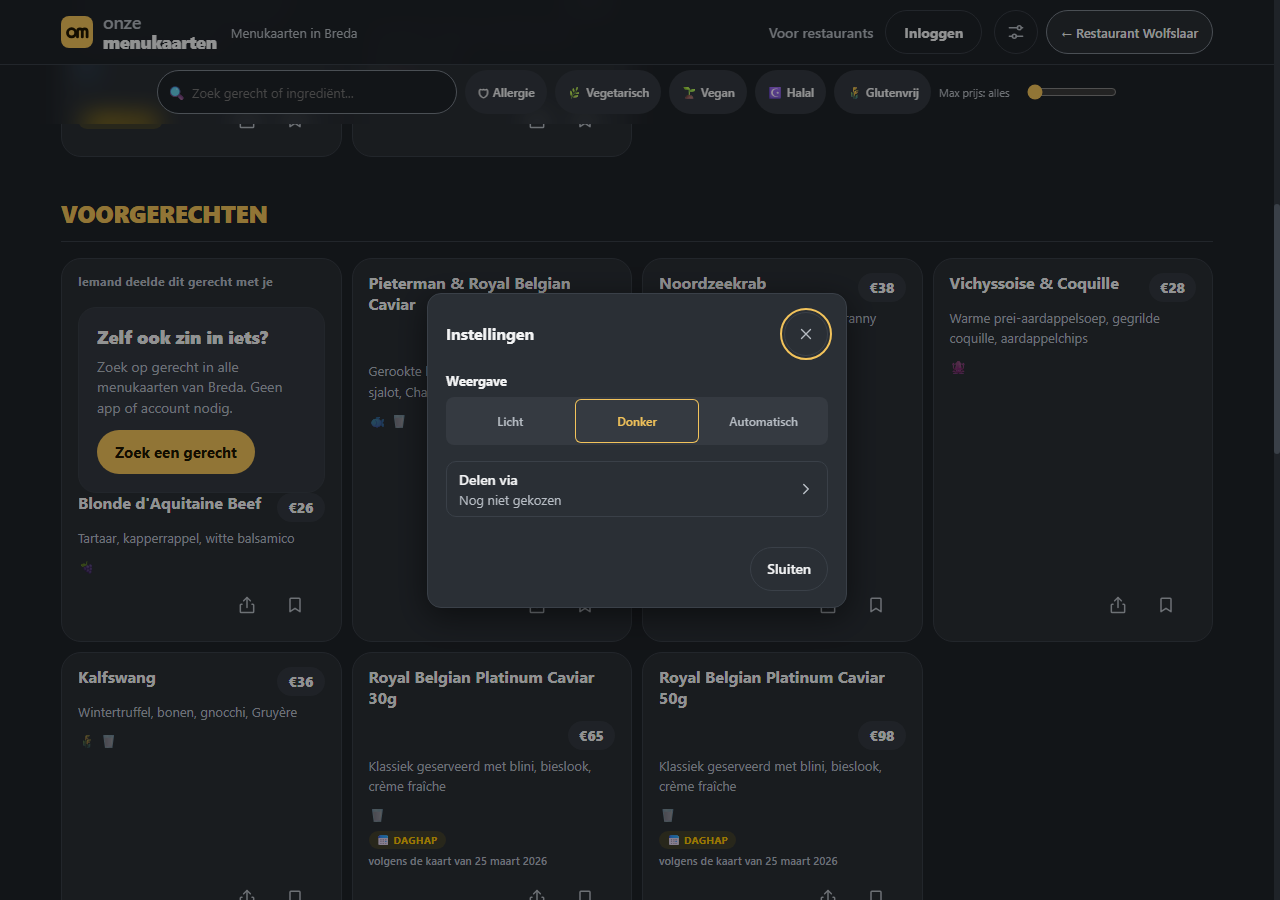
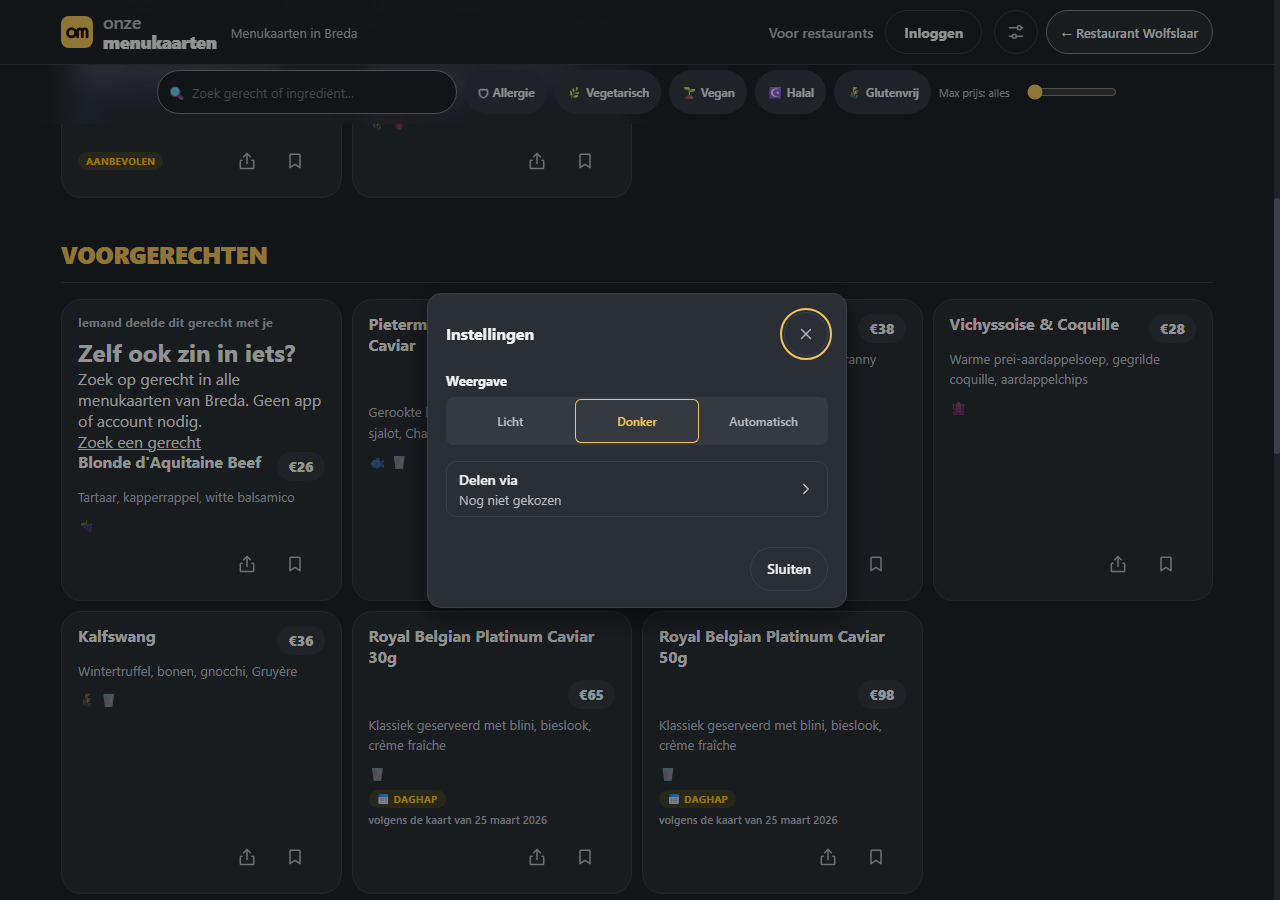
test(be62): eindbewijs van browsercheck, laadgrootte en de menu-route onder de oude budgetgrens (#153)

diff --git a/src/lib/be62Surface.test.js b/src/lib/be62Surface.test.js
@@ -48,12 +48,18 @@ test('BE-62: /kies toont de vraag alleen na een eigen stem', () => {
 });
 
 test('BE-62: een gedeeld gerecht krijgt het vlak onder de deelregel, met Bewaar', () => {
-  assert.match(MENU_BODY, /import ZoekGerechtBlock from '@\/src\/components\/ZoekGerechtBlock'/);
+  // De opmaak staat hier zelf (geen extra component), zodat de eerste lading
+  // van de menukaart niet groeit.
+  assert.doesNotMatch(MENU_BODY, /import ZoekGerechtBlock/);
   // Deelregel en vlak delen dezelfde voorwaarde; het vlak staat er direct na.
   assert.match(MENU_BODY, /\{shareNote && <div className="dish-share-note">\{SHARED_DISH_NOTE\}<\/div>\}/);
   const after = MENU_BODY.slice(MENU_BODY.indexOf('{shareNote && <div className="dish-share-note">'));
-  assert.match(after, /\{shareNote && \(\s*<ZoekGerechtBlock/);
-  assert.equal(MENU_BODY.match(/<ZoekGerechtBlock/g).length, 1);
+  assert.match(after, /\{shareNote && \(\s*<section className="zoek-gerecht zoek-gerecht--dish">/);
+  assert.equal(MENU_BODY.match(/className="zoek-gerecht zoek-gerecht--dish"/g).length, 1);
+  assert.ok(MENU_BODY.includes(`>${SHARED_RETURN_TITLE}<`));
+  assert.ok(MENU_BODY.includes(`>${SHARED_RETURN_BODY}<`));
+  assert.ok(MENU_BODY.includes(`>${SHARED_RETURN_CTA}<`));
+  assert.match(MENU_BODY, /<Link href="\/" className="zoek-gerecht-btn" prefetch=\{false\}>/);
   // De bestaande bewaarknop blijft op de kaart staan (Bewaar + Delen).
   assert.match(MENU_BODY, /<DishShareButton[\s\S]*?entry=\{saveEntry\}/);
   // En de deelregel verschijnt alleen bij een gedeelde link, zoals voorheen.
@@ -67,8 +73,9 @@ test('BE-62: een gedeeld lijstje krijgt hetzelfde vlak, naast de bestaande bewaa
   const sharedBranch = LIJST.slice(LIJST.indexOf('{shared ? ('), LIJST.indexOf(') : own.length === 0 ? ('));
   assert.ok(sharedBranch.includes('<ZoekGerechtBlock'), 'het vlak staat in de tak van het gedeelde lijstje');
   assert.ok(sharedBranch.includes('ADD_TO_OWN_LIST_LABEL'), 'de bestaande bewaarknop staat ernaast');
-  // De woorden in het vlak zijn dezelfde als die van het gedeelde gerecht.
-  for (const source of [MENU_BODY, LIJST]) {
+  // De woorden in het lijstje zijn dezelfde als die van het gedeelde gerecht;
+  // het vlak op de menukaart staat in MenuBody (zie de test hierboven).
+  for (const source of [LIJST]) {
     assert.ok(source.includes(`title="${SHARED_RETURN_TITLE}"`));
     assert.ok(source.includes(`body="${SHARED_RETURN_BODY}"`));
     assert.ok(source.includes(`cta="${SHARED_RETURN_CTA}"`));

diff --git a/src/components/MenuBody.js b/src/components/MenuBody.js
@@ -5,11 +5,11 @@
 // chrome, no URL parameters, no filters, no reservation actions — those stay
 // in MenuView. Classes and markup are the public menu's own (app/globals.css).
 
+import Link from 'next/link'
 import Emoji from '@/src/components/Emoji'
-// BE-62 — bij een gedeeld gerecht het vlak "Zelf ook zin in iets?". De woorden
-// staan hier bewust als tekst en niet in een extra module: dit vlak hoort niet
-// in de eerste lading te groeien (contract, acceptatie 3).
-import ZoekGerechtBlock from '@/src/components/ZoekGerechtBlock'
+// BE-62 — bij een gedeeld gerecht het vlak "Zelf ook zin in iets?". De opmaak
+// staat hier zelf en niet in een extra component: dit vlak hoort de eerste
+// lading van de menukaart niet te laten groeien (contract, acceptatie 3).
 import DishShareButton from '@/src/components/DishShareButton'
 import { SHARED_DISH_NOTE } from '@/src/lib/dishShare'
 import { groupHeadingsBefore } from '@/src/lib/menuGroups'
@@ -158,12 +158,11 @@ export function MenuItem({ item, query = '', excludeAllergens = [], isResolvedTa
           onder de regel hierboven. De Bewaar-knop staat al in de voet van deze
           kaart (DishShareButton) en houdt de bestaande bewaarlogica. */}
       {shareNote && (
-        <ZoekGerechtBlock
-          title="Zelf ook zin in iets?"
-          body="Zoek op gerecht in alle menukaarten van Breda. Geen app of account nodig."
-          cta="Zoek een gerecht"
-          variant="dish"
-        />
+        <section className="zoek-gerecht zoek-gerecht--dish">
+          <h2 className="zoek-gerecht-title">Zelf ook zin in iets?</h2>
+          <p className="zoek-gerecht-body">Zoek op gerecht in alle menukaarten van Breda. Geen app of account nodig.</p>
+          <Link href="/" className="zoek-gerecht-btn" prefetch={false}>Zoek een gerecht</Link>
+        </section>
       )}
       <div className="card-top">
         <div className="td-name">{highlight(item.name, displayQuery)}</div>

diff --git a/ops/perf/be62-first-load.test.js b/ops/perf/be62-first-load.test.js
@@ -1,0 +1,35 @@
+'use strict';
+
+// BE-62 (#153, reviewstap 4) — de eerste lading van de drie publieke routes
+// blijft binnen +1 KB van origin/main. De getallen komen uit
+// ops/perf/evidence/be62-first-load.json, gemeten met dezelfde helper als de
+// budgettest (ops/perf/lib/first-load-js.js). Deze test bewaakt de grens en de
+// rekenkunde, zodat een nieuwe meting niet stilzwijgend ruimer wordt.
+
+const test = require('node:test');
+const assert = require('node:assert/strict');
+const fs = require('node:fs');
+const path = require('node:path');
+
+const EVIDENCE = JSON.parse(fs.readFileSync(path.join(__dirname, 'evidence', 'be62-first-load.json'), 'utf8'));
+
+test('BE-62: de meting noemt de drie routes uit de review, met basis en nu', () => {
+  assert.equal(EVIDENCE.be, 'BE-62 (#153)');
+  assert.equal(EVIDENCE.limitBytes, 1024);
+  assert.deepEqual(EVIDENCE.routes.map((row) => row.label), ['/', '/menu/[id]', '/kies/[code]']);
+  for (const row of EVIDENCE.routes) {
+    assert.ok(row.baseGzipBytes > 0, `${row.label}: geen basisgetal`);
+    assert.ok(row.headGzipBytes > 0, `${row.label}: geen nieuw getal`);
+    assert.equal(row.deltaBytes, row.headGzipBytes - row.baseGzipBytes, `${row.label}: delta klopt niet`);
+  }
+});
+
+test('BE-62: geen enkele route groeit meer dan 1 KB', () => {
+  for (const row of EVIDENCE.routes) {
+    assert.ok(
+      row.deltaBytes <= EVIDENCE.limitBytes,
+      `${row.label}: +${row.deltaBytes} bytes is meer dan ${EVIDENCE.limitBytes}`,
+    );
+    assert.equal(row.withinLimit, true, `${row.label}: withinLimit hoort true te zijn`);
+  }
+});
